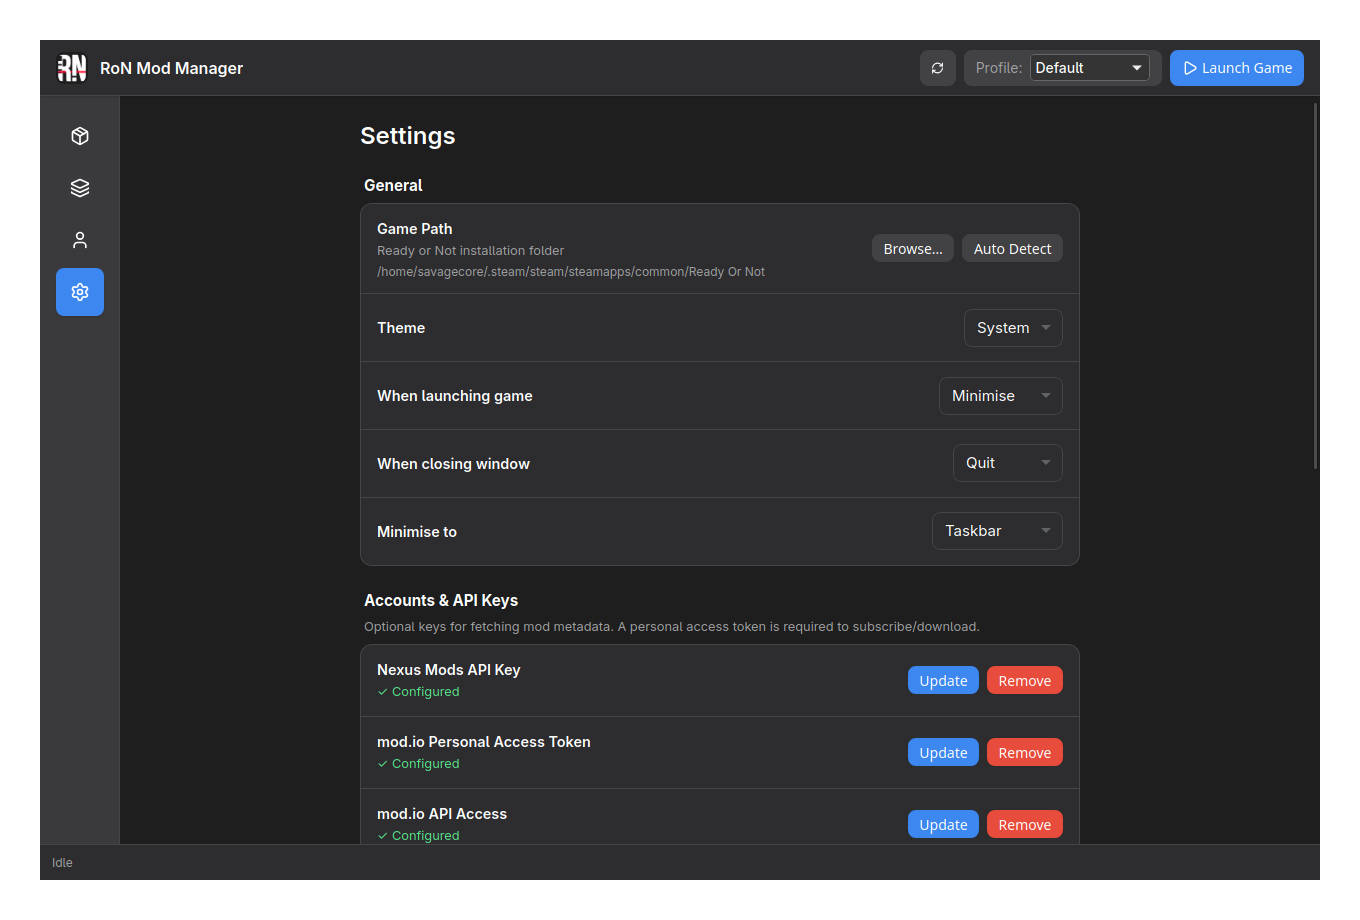
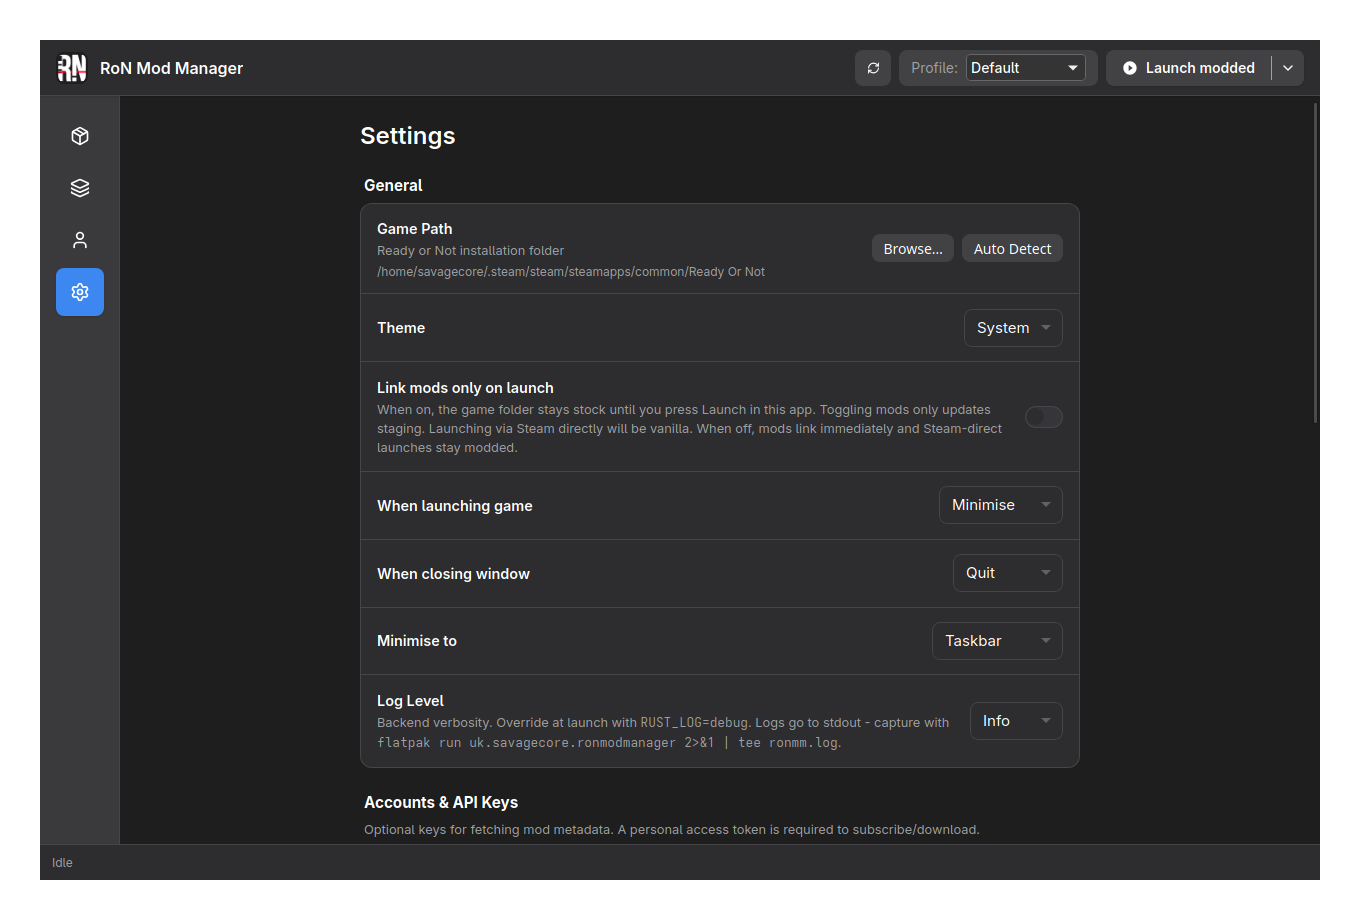
refactor: extract launch split button into themed component

Changed region(s): [[0.2471, 0.5478, 0.8029, 0.913], [0.2779, 0.3957, 0.7721, 0.6391], [0.6794, 0.0304, 0.9574, 0.0913]]

diff --git a/src/routes/+layout.svelte b/src/routes/+layout.svelte
@@ -26,6 +26,7 @@
     updateConfig,
   } from "$lib/api/commands";
   import FooterStatusBar from "$lib/components/FooterStatusBar.svelte";
+  import LaunchButton from "$lib/components/LaunchButton.svelte";
   import ImportLogPanel from "$lib/components/ImportLogPanel.svelte";
   import SyncPanel from "$lib/components/SyncPanel.svelte";
   import Toast from "$lib/components/Toast.svelte";
@@ -56,15 +57,7 @@
     getCurrentWindow,
     primaryMonitor,
   } from "@tauri-apps/api/window";
-  import {
-    ChevronDown,
-    Layers,
-    Package,
-    Play,
-    RefreshCw,
-    Settings,
-    User,
-  } from "lucide-svelte";
+  import { Layers, Package, RefreshCw, Settings, User } from "lucide-svelte";
   import semver from "semver";
   import { onMount } from "svelte";
   // Self-hosted Adwaita fonts (OFL-1.1, via Fontsource) - must load before app.css.
@@ -130,7 +123,6 @@
   let showSetupWizard = false;
   let closingFromLaunch = false;
   let forceClose = false;
-  let showLaunchDropdown = false;
   let isGameRunning = false;
 
   function resolveSelectedProfile(
@@ -301,7 +293,6 @@
       alert("Game path is not configured. Open Settings first.");
       return;
     }
-    showLaunchDropdown = false;
 
     try {
       isLaunching = true;
@@ -338,7 +329,6 @@
       alert("Game path is not configured. Open Settings first.");
       return;
     }
-    showLaunchDropdown = false;
 
     try {
       isLaunching = true;
@@ -562,17 +552,6 @@
         incognitoMode.update((v) => !v);
       }
     };
-
-    // Close the launch dropdown when clicking anywhere outside it.
-    const handleClickOutside = (e: MouseEvent) => {
-      if (!showLaunchDropdown) return;
-      const target = e.target as Node;
-      const dropdown = document.getElementById("launch-dropdown-root");
-      if (dropdown && !dropdown.contains(target)) {
-        showLaunchDropdown = false;
-      }
-    };
-    document.addEventListener("mousedown", handleClickOutside);
 
     window.addEventListener("focus", handleAppFocus);
     document.addEventListener("visibilitychange", handleVisibilityChange);
@@ -854,7 +833,6 @@
       if (unlistenMove) {
         unlistenMove();
       }
-      document.removeEventListener("mousedown", handleClickOutside);
       window.removeEventListener("focus", handleAppFocus);
       document.removeEventListener("visibilitychange", handleVisibilityChange);
       window.removeEventListener("ron:profile-changed", handleProfileChanged);
@@ -924,75 +902,16 @@
       </div>
 
       <!-- Launch Game split-button: modded (default) + vanilla -->
-      <div
-        id="launch-dropdown-root"
-        class="flex items-center"
-        style="position:relative;"
-      >
-        <button
-          class="btn primary btn-sm h-9 rounded-r-none"
-          on:click={() => {
-            void launchWithProfile();
-          }}
-          disabled={!hasGamePath ||
-            isLaunching ||
-            isGameRunning ||
-            $importLogStore.mods.some((m) => m.status === "running")}
-          title={isGameRunning
-            ? "Game is running - links unlock when it quits"
-            : "Launch Ready or Not with selected profile"}
-        >
-          <Play size={16} class="inline mr-1" />
-          {isLaunching
-            ? "Launching..."
-            : isGameRunning
-              ? "Game running"
-              : "Launch modded"}
-        </button>
-        <button
-          class="btn primary btn-sm h-9 rounded-l-none"
-          style="border-left:none;padding-inline:0.4rem;"
-          on:click={() => {
-            if (!isLaunching) showLaunchDropdown = !showLaunchDropdown;
-          }}
-          disabled={!hasGamePath ||
-            isLaunching ||
-            isGameRunning ||
-            $importLogStore.mods.some((m) => m.status === "running")}
-          title={isGameRunning
-            ? "Game is running - links unlock when it quits"
-            : "Choose launch mode"}
-          aria-label="Choose launch mode"
-        >
-          <ChevronDown size={16} />
-        </button>
-        {#if showLaunchDropdown}
-          <div
-            class="absolute right-0 mt-1 min-w-56 rounded-lg shadow-lg"
-            style="top:100%;background:var(--clr-surface);border:1px solid var(--adw-border-color);z-index:100;"
-          >
-            <button
-              class="block w-full text-left px-4 py-2 text-sm hover:opacity-80"
-              style="color:var(--clr-text);"
-              on:click={() => {
-                void launchVanilla();
-              }}
-            >
-              Launch vanilla
-            </button>
-            <div style="border-top:1px solid var(--adw-border-color);"></div>
-            <button
-              class="block w-full text-left px-4 py-2 text-sm hover:opacity-80"
-              style="color:var(--clr-text);"
-              on:click={() => {
-                void launchWithProfile();
-              }}
-            >
-              Launch modded
-            </button>
-          </div>
-        {/if}
-      </div>
+      <LaunchButton
+        disabled={!hasGamePath ||
+          isLaunching ||
+          isGameRunning ||
+          $importLogStore.mods.some((m) => m.status === "running")}
+        {isLaunching}
+        {isGameRunning}
+        onLaunchModded={() => void launchWithProfile()}
+        onLaunchVanilla={() => void launchVanilla()}
+      />
     </div>
   </header>
 

diff --git a/src/lib/components/LaunchButton.svelte b/src/lib/components/LaunchButton.svelte
@@ -1,0 +1,123 @@
+<script lang="ts">
+  import { ChevronDown } from "lucide-svelte";
+  import { onMount } from "svelte";
+
+  export let onLaunchModded: () => void;
+  export let onLaunchVanilla: () => void;
+  export let disabled = false;
+  export let isLaunching = false;
+  export let isGameRunning = false;
+
+  let menuOpen = false;
+  let root: HTMLDivElement;
+
+  function toggleMenu() {
+    if (!disabled) {
+      menuOpen = !menuOpen;
+    }
+  }
+
+  function chooseLaunch(action: () => void) {
+    menuOpen = false;
+    action();
+  }
+
+  onMount(() => {
+    const handleClickOutside = (event: MouseEvent) => {
+      if (!menuOpen) return;
+      if (root && !root.contains(event.target as Node)) {
+        menuOpen = false;
+      }
+    };
+    document.addEventListener("mousedown", handleClickOutside);
+    return () => document.removeEventListener("mousedown", handleClickOutside);
+  });
+
+  $: launchLabel = isLaunching
+    ? "Launching..."
+    : isGameRunning
+      ? "Game running"
+      : "Launch modded";
+
+  $: launchTitle = isGameRunning
+    ? "Game is running - links unlock when it quits"
+    : "Launch Ready or Not with selected profile";
+</script>
+
+<div bind:this={root} class="relative inline-flex">
+  <div
+    class="inline-flex h-9 overflow-hidden rounded-lg shadow-sm"
+    style="background: var(--clr-btn); color: var(--clr-text);"
+  >
+    <!-- Primary launch target -->
+    <button
+      type="button"
+      class="inline-flex flex-1 items-center gap-2 px-4 text-sm font-semibold transition-colors hover:bg-[var(--clr-btn-adaptive-hover)] disabled:cursor-not-allowed disabled:opacity-50 disabled:hover:bg-transparent"
+      on:click={() => chooseLaunch(onLaunchModded)}
+      {disabled}
+      title={launchTitle}
+    >
+      <!-- Filled play icon -->
+      <svg class="h-4 w-4 fill-current" viewBox="0 0 24 24" aria-hidden="true">
+        <path
+          d="M12 2C6.48 2 2 6.48 2 12s4.48 10 10 10 10-4.48 10-10S17.52 2 12 2zm-2 14.5v-9l6 4.5-6 4.5z"
+        />
+      </svg>
+      <span>{launchLabel}</span>
+    </button>
+
+    <!-- Divider -->
+    <div
+      class="my-1.5 w-px"
+      style="background: var(--clr-text-secondary);"
+    ></div>
+
+    <!-- Dropdown caret target -->
+    <button
+      type="button"
+      class="inline-flex w-8 items-center justify-center transition-colors hover:bg-[var(--clr-btn-adaptive-hover)] disabled:cursor-not-allowed disabled:opacity-50 disabled:hover:bg-transparent"
+      on:click={toggleMenu}
+      {disabled}
+      title={isGameRunning
+        ? "Game is running - links unlock when it quits"
+        : "Choose launch mode"}
+      aria-label="Choose launch mode"
+      aria-haspopup="menu"
+      aria-expanded={menuOpen}
+    >
+      <ChevronDown
+        size={16}
+        class={menuOpen
+          ? "rotate-180 transition-transform duration-150"
+          : "transition-transform duration-150"}
+      />
+    </button>
+  </div>
+
+  {#if menuOpen}
+    <div
+      class="absolute right-0 top-full z-50 mt-2 w-48 rounded-md py-1 shadow-lg"
+      style="background: var(--clr-btn); border: 1px solid var(--adw-border-color);"
+      role="menu"
+    >
+      <button
+        type="button"
+        class="w-full px-4 py-2 text-left text-sm transition-colors hover:bg-[var(--clr-btn-adaptive-pressed)]"
+        style="color: var(--clr-text);"
+        on:click={() => chooseLaunch(onLaunchVanilla)}
+        role="menuitem"
+      >
+        Launch vanilla
+      </button>
+      <button
+        type="button"
+        class="w-full px-4 py-2 text-left text-sm transition-colors hover:bg-[var(--clr-btn-adaptive-pressed)]"
+        style="color: var(--clr-text);"
+        on:click={() => chooseLaunch(onLaunchModded)}
+        role="menuitem"
+      >
+        Launch modded
+      </button>
+    </div>
+  {/if}
+</div>
